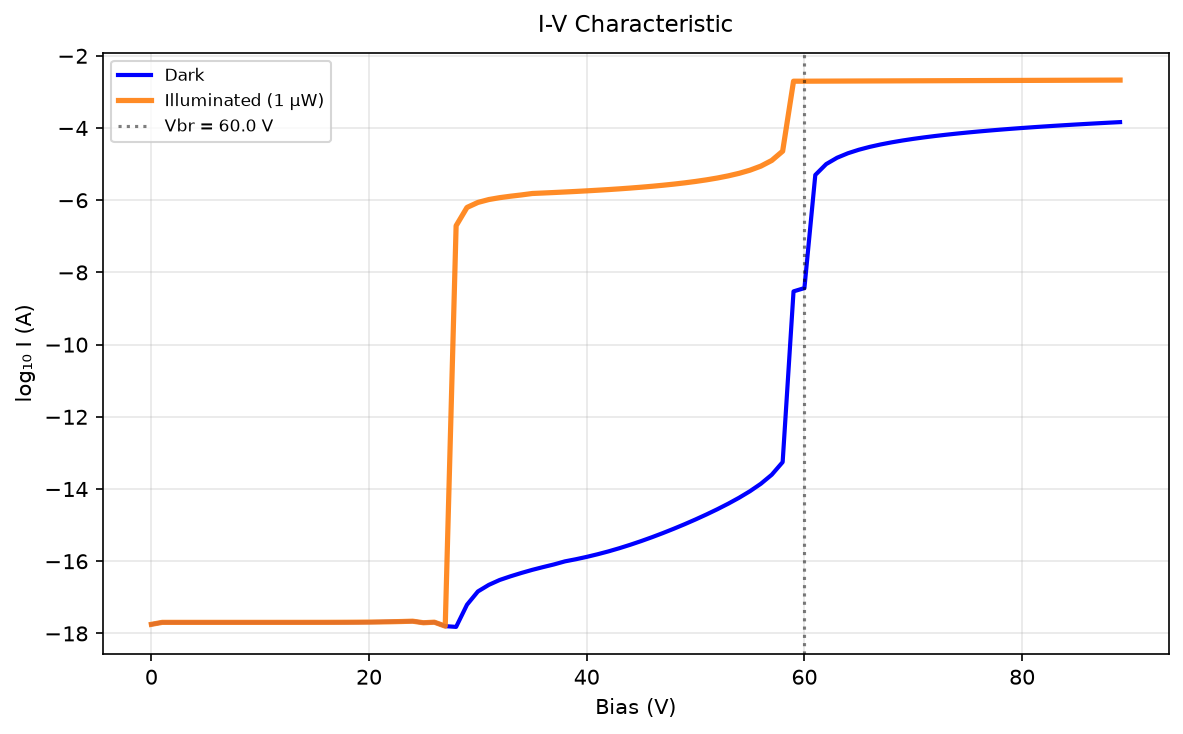
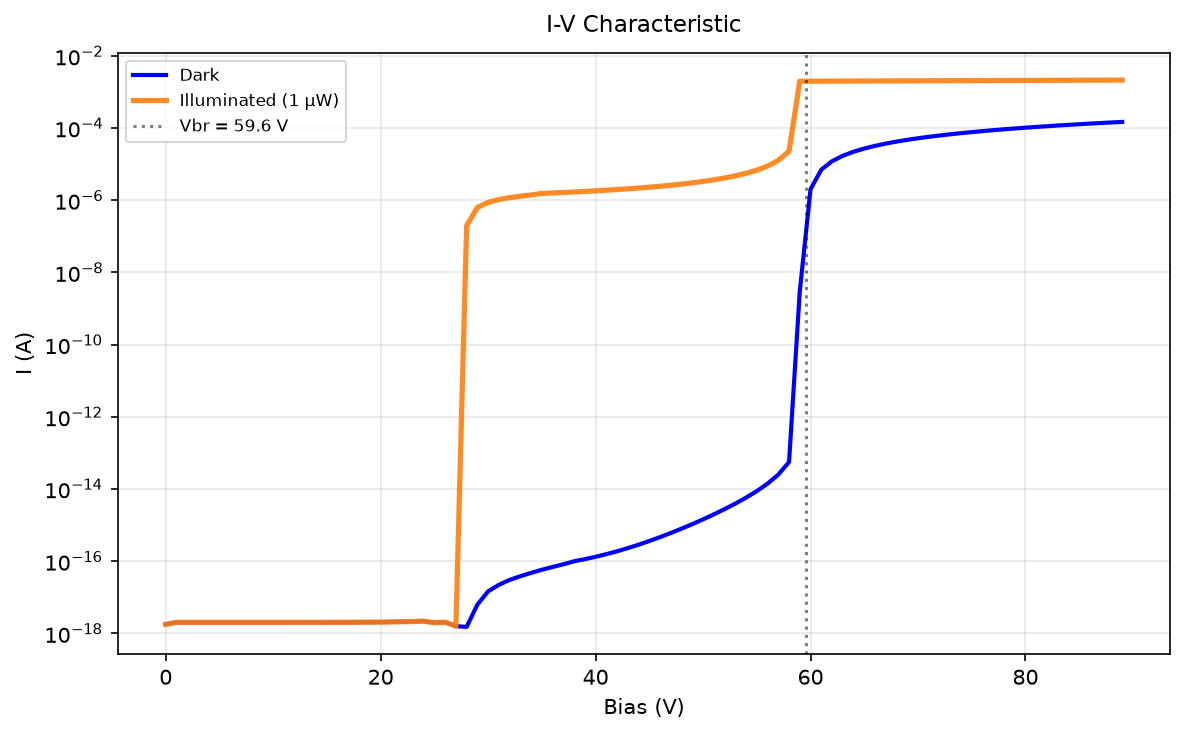
IV plot: use set_yscale('log') with I(A) label instead of manual log10

diff --git a/src/utils/plotter/current.py b/src/utils/plotter/current.py
@@ -111,19 +111,17 @@ class IVCharacteristicPlotter(BasePlotter):
         plt = self._import()
         fig, ax = plt.subplots(figsize=(8, 5))
 
-        eps = 1e-20
-        logI_dark = np.log10(np.abs(I_dark) + eps)
-        ax.plot(Vbias, logI_dark, "b-", label="Dark", lw=2)
+        ax.plot(Vbias, np.abs(I_dark), "b-", label="Dark", lw=2)
         if I_light is not None:
             label = "Illuminated"
             if optical_power is not None:
                 label += f" ({optical_power*1e6:.0f} µW)"
-            logI_light = np.log10(np.abs(I_light) + eps)
-            ax.plot(Vbias, logI_light, color="tab:orange", ls="-", label=label, lw=2.5, alpha=0.9)
+            ax.plot(Vbias, np.abs(I_light), color="tab:orange", ls="-", label=label, lw=2.5, alpha=0.9)
         if Vbr is not None:
             ax.axvline(x=Vbr, color="k", ls=":", alpha=0.5, label=f"Vbr = {Vbr:.1f} V")
+        ax.set_yscale("log")
         ax.set_xlabel("Bias (V)")
-        ax.set_ylabel("log₁₀ I (A)")
+        ax.set_ylabel("I (A)")
         ax.legend(fontsize=8)
         ax.grid(True, alpha=0.3)
         ax.set_title("I-V Characteristic", fontsize=11, pad=10)
@@ -142,11 +140,11 @@ class ComprehensiveIVPlotter(BasePlotter):
         plt = self._import()
         fig, (ax_log, ax_lin) = plt.subplots(2, 1, figsize=(8, 8), sharex=True)
 
-        eps = 1e-20
-        ax_log.plot(Vbias, np.log10(np.abs(I_dark) + eps), "b-", label="Dark", lw=2)
+        ax_log.plot(Vbias, np.abs(I_dark), "b-", label="Dark", lw=2)
         if Vbr is not None:
             ax_log.axvline(x=Vbr, color="k", ls=":", alpha=0.5, label=f"Vbr = {Vbr:.1f} V")
-        ax_log.set_ylabel("log₁₀ I (A)")
+        ax_log.set_yscale("log")
+        ax_log.set_ylabel("I (A)")
         ax_log.legend(fontsize=8)
         ax_log.grid(True, alpha=0.3)
         ax_log.set_title("Comprehensive I-V — Log Scale", fontsize=11, pad=10)